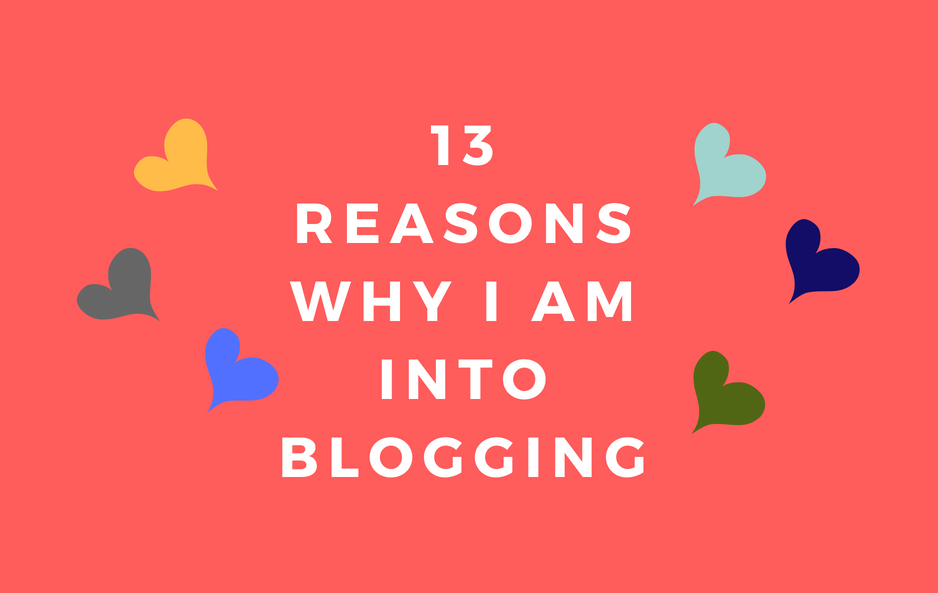
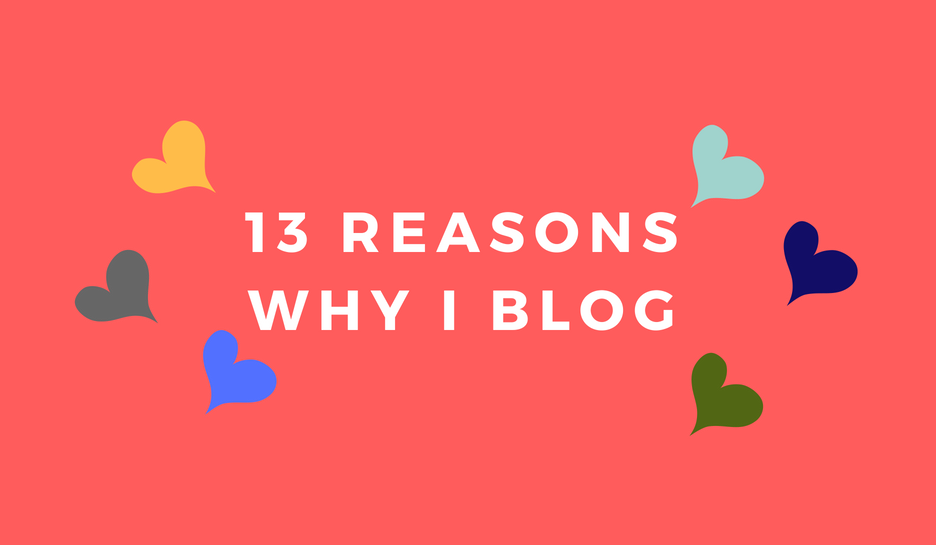
updated article

diff --git a/content/blog/13-reasons-why-i-blog.md b/content/blog/13-reasons-why-i-blog.md
@@ -1,0 +1,48 @@
++++
+title = "13 reasons why I blog"
+date = "2018-06-10T12:30:25.364Z"
+tags = ["writing"]
+categories = ["blogging"]
+images = ["/img/13-reasons-why.png"]
++++
+
+{{< figure src="/img/13-reasons-why.png" alt="13 reasons why I am into blogging?" >}}
+
+## 1. Help people through my blog
+As a developer, I am solving a lot of technical problems everyday and I love to share it with other developers around the world. Contributing something back to the developer community gives me a moment of happiness and getting a "Thank you" comment or a message from a reader is one of the most satisfying moment for a blogger. I want these moments to happen  frequently, So I spare my time to craft useful tutorials.
+
+## 2. Learn continously
+Creating an unique piece of tutorial is not an easy job. Also, It takes a lot of effort to keep up on latest trends and technologies. I try to learn a lot of things just for the purpose of creating new interesting tutorials. It is not always about creating an unique content, Sometimes solving problems in an efficient way makes a great post.
+
+## 3. Make money
+You may think why "making money" is at number 3. By helping people and learning technology continously with blogging, Making money occured naturally as a biproduct. Using [IdiotInside.com](http://idiotinside.com) and It's [facebook page](https://www.facebook.com/idiotinside/), I was able to monetize using affiliate marketing and I've made a pretty good numbers. Eventhough I am not doing affiliate marketing nowadays, The money I've made earlier is more than enough to run my blog for decades. 
+
+## 4. Inspire People
+By writing articles regularly and sharing those with others, I am able to inspire some people to start their own blog. This moment is the most fulfilling moment for any blogger.
+
+## 5. End to End execution
+When you run a blog, you have the opportunity and liberty to do everything by yourself at your own pace. I take care of everything starting from purchasing a domain and setting up a web hosting server, maintaining servers, creating theme and plugins for the website and distributing content on social media.
+
+## 6. Create Memes
+I've found that sharing my blog content with supporting memes drives more traffic to the website. So I challenged myself and learnt to use image editing tools efficiently to create memes and featured images for my blog posts. Sometimes I just do it for fun.
+
+## 7. Job opportunities
+**Blogging is the new resume**. It may open doors to many great places. It is by far the best way to showcase my area of expertise, passion towards my work.
+
+## 8. Reduce stress
+When I've gone through a bad day, I scribble whatever I felt and what happened around me. Later, I look at it as a third person and see if there is any meaningful message that I can convey through that situation. If not, I move them to trash. This habit has a huge effect on my mental health.
+
+## 9. Personal branding
+Since I am a web developer by profession, having a technical blog increases my credibility and expertise in specific niche.
+
+## 10. Being independant
+Most of my gadgets I use are bought using my savings and blog earnings without having to ask my mom. This habit of getting things on my own boosts my self confidence. 
+
+## 11. Creating multiple income sources
+I like the idea of creating multiple income sources. One that pays you well and another that makes you happier. Having multiple income sources means you don't have to depend on one source of income. Creating steady income through blog is slighltly difficult when you do it part time. But once you get there, It becomes a brilliant life hack to boost your self confidence.
+
+## 12. Experiment technologies
+Most of the times, Before I try something new at work for example, choosing a new framework. I try it unofficially and develop something and experiment with it and then decide whether to proceed forward or not. By doing this, I am able to do my task fast at work without any glitches in production.
+
+## 13. Share thoughts & ideas
+When I start my blogging journey, I chose to write only technical articles. I was always afraid of writing non technical articles, So I took it as a challenge and started expanding my comfort zone. 
